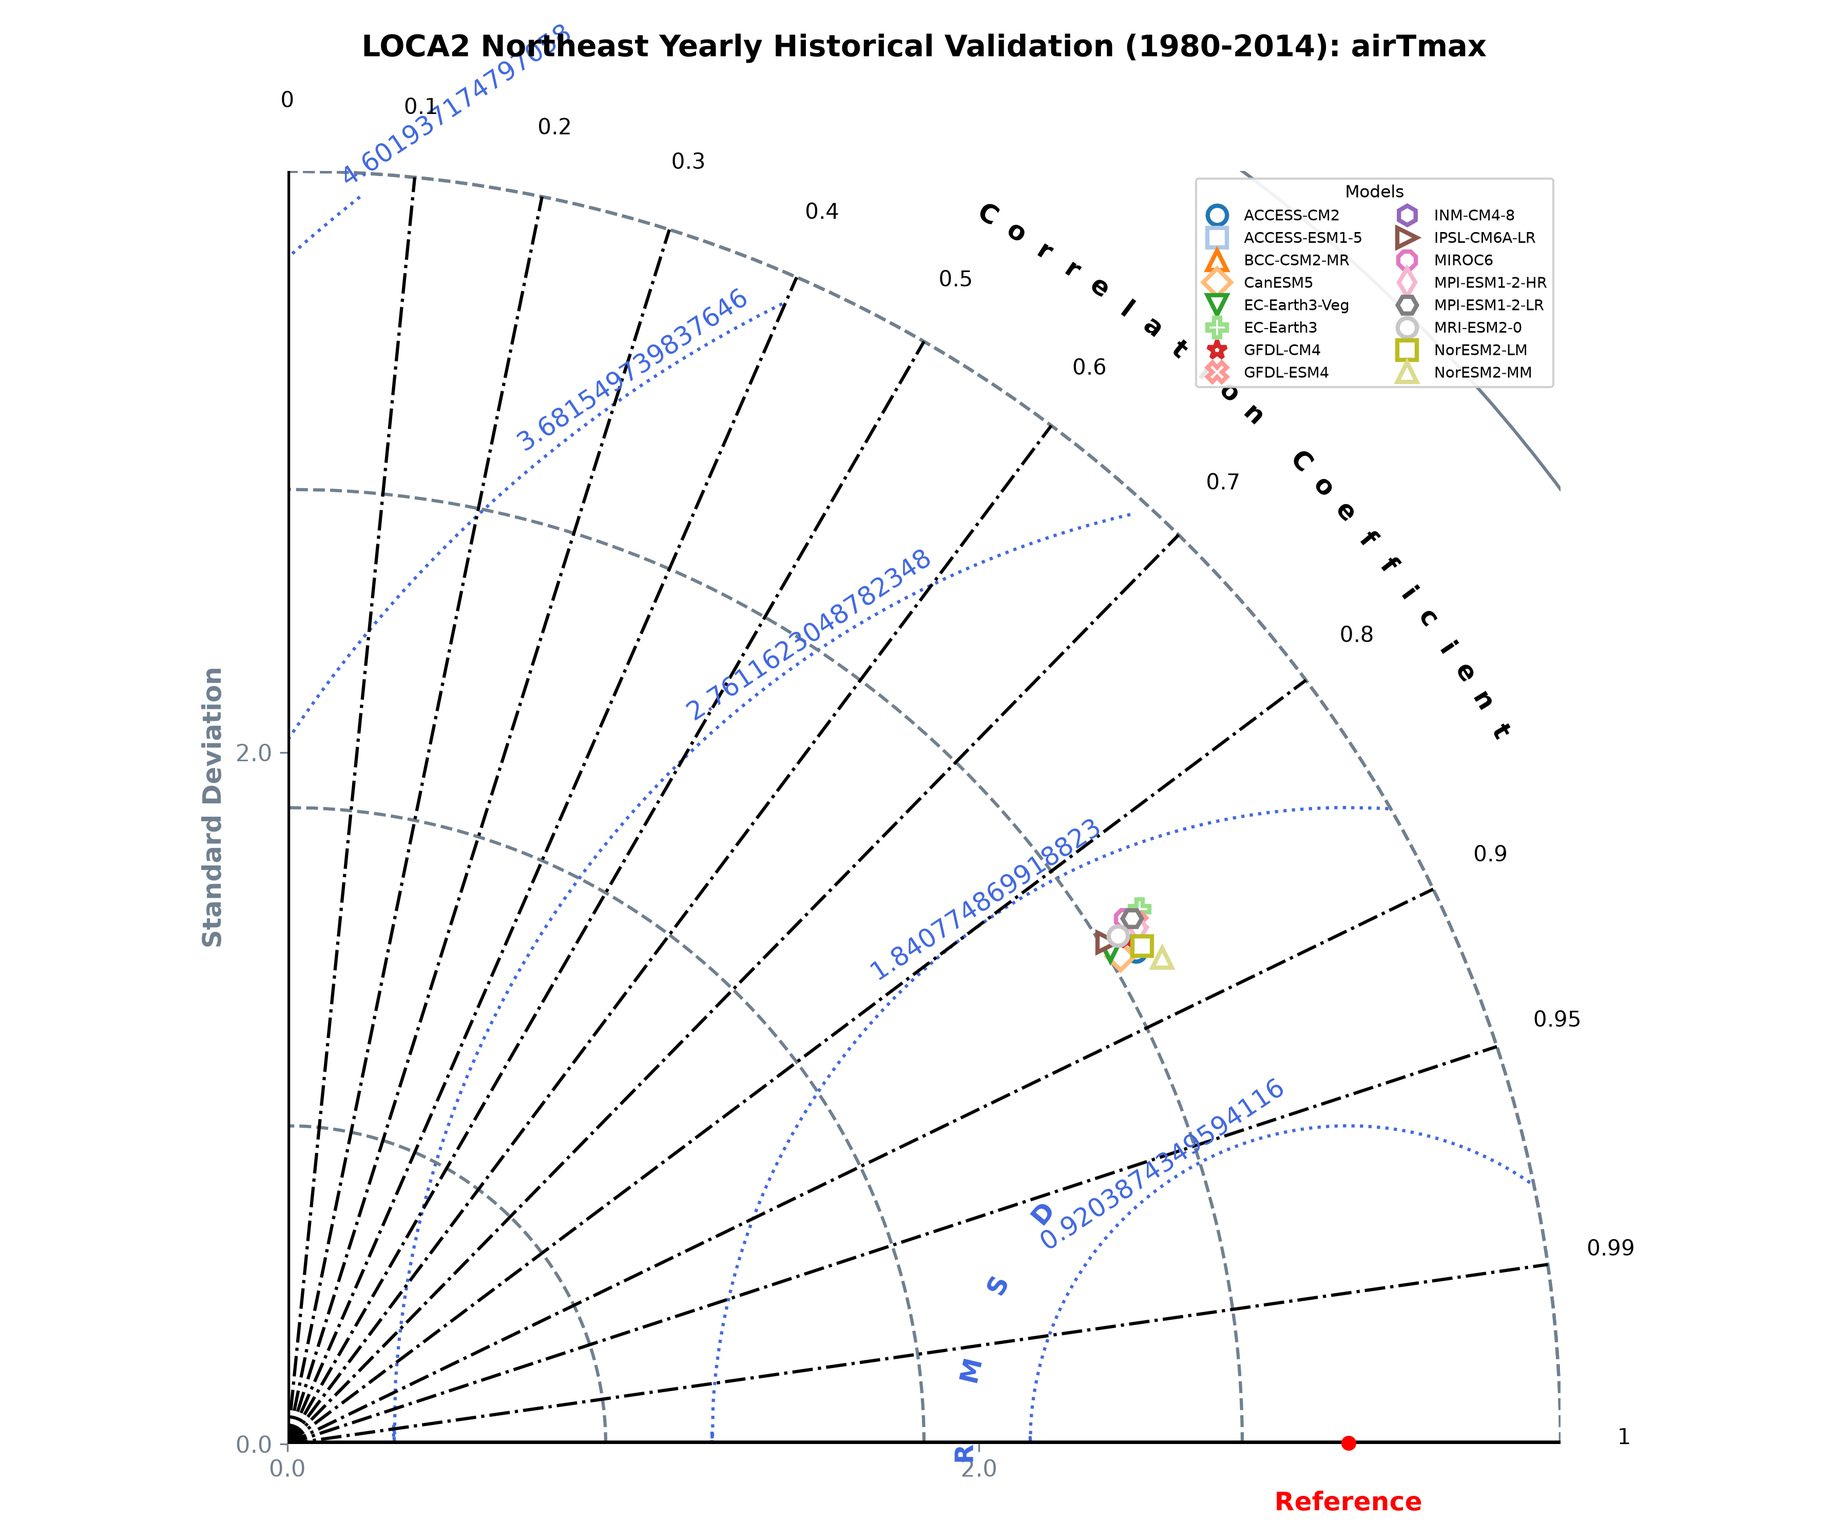
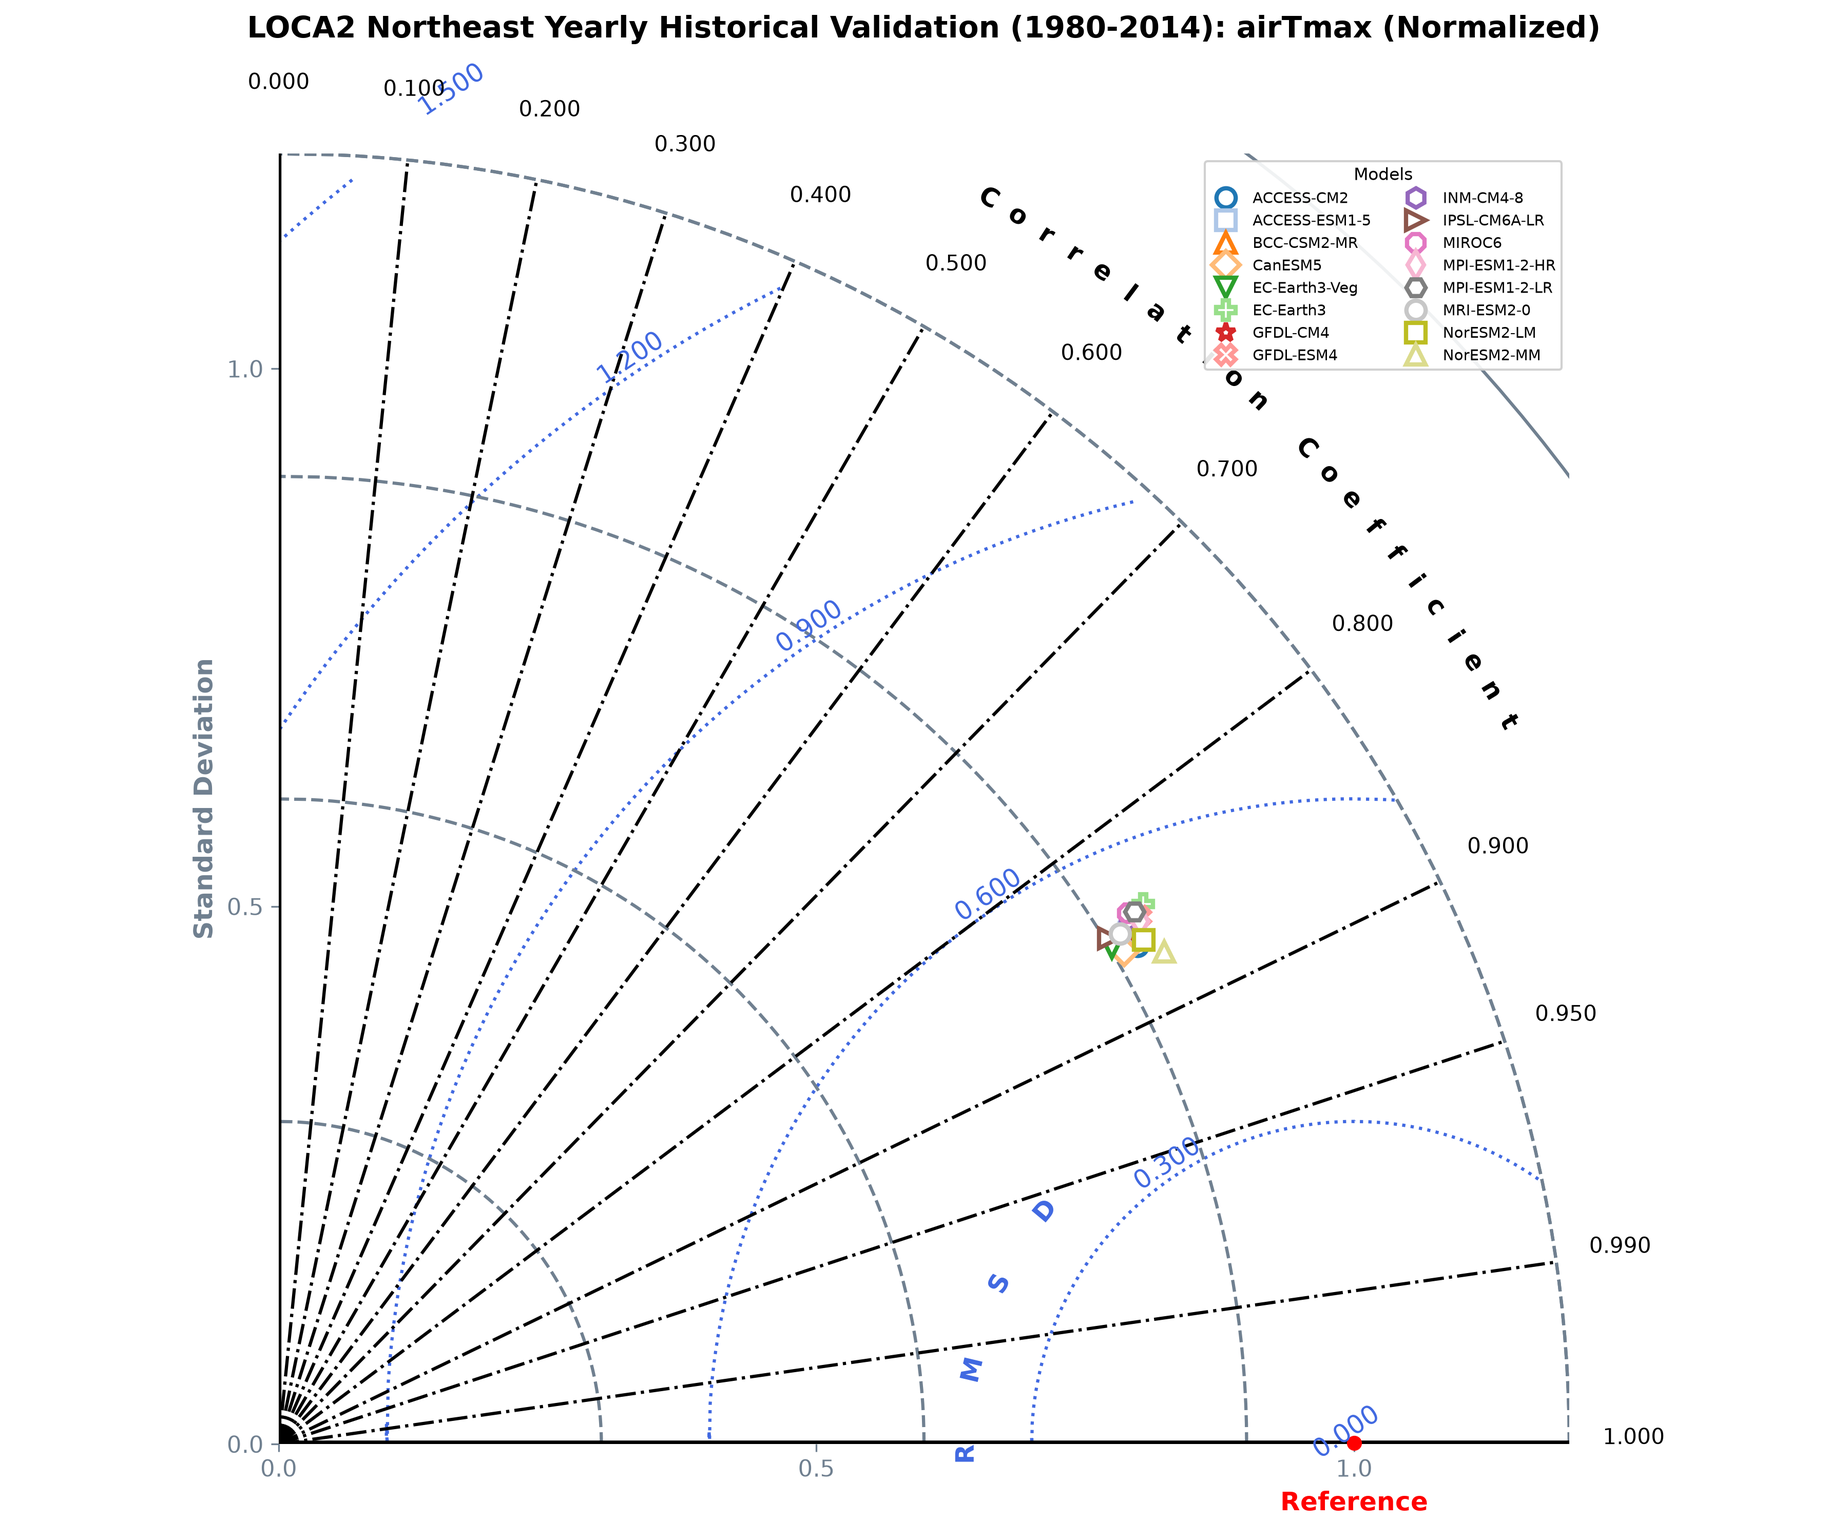
Carried over changes from CONUS Taylor diagrams script to northeast Taylor diagrams script

diff --git a/northeast_yearly_taylor_diagrams.py b/northeast_yearly_taylor_diagrams.py
@@ -24,18 +24,22 @@ MODEL_BASE_DIR = "/net/nfs/echo/ankaa/LOCA2-WBM_output/LOCA2-WBM_historical"
 OUTPUT_DIR = os.path.expanduser("~/LOCA2-WBM_code/plots/taylor_diagrams")
 os.makedirs(OUTPUT_DIR, exist_ok=True)
 
-# state boundary shapefile used to clip datasets to CONUS
+# state boundary shapefile used to clip datasets to the Northeast
 SHAPEFILE_PATH = os.path.expanduser("~/LOCA2-WBM_code/shapefiles/states/cb_2025_us_state_5m.shp")
 
 # northeast states
-nca_ne_states = ['ME', 'NH', 'VT', 'MA', 'RI', 'CT', 'NY', 'NJ', 'PA', 'DE', 'MD', 'WV']
+NE_STATES = ['ME', 'NH', 'VT', 'MA', 'RI', 'CT', 'NY', 'NJ', 'PA', 'DE', 'MD', 'WV']
 
 # map variables to aggregation operations
 variables_config = {
     "airTmax": "mean",
     "airTmin": "mean",
-    "precip": "sum"
+    "precip": "mean"
 }
+
+# known "no data" sentinels that show up
+FILL_VALUE = -9999.0
+FILL_ABS_THRESHOLD = 1e10
 
 model_folders = sorted(glob.glob(os.path.join(MODEL_BASE_DIR, "*_newprcp")))
 model_names = [os.path.basename(f).split('_')[0] for f in model_folders]
@@ -60,45 +64,168 @@ def load_northeast_boundary(shapefile_path=SHAPEFILE_PATH):
     """Load the state shapefile, keep only the northeast states, and
     dissolve them into a single boundary in EPSG:4326 (plain lat/lon)."""
     states = gpd.read_file(shapefile_path)
-    print("Columns in shapefile:", states.columns)
-    print("Sample rows:\n", states[['STUSPS', 'NAME', 'STATEFP']].head())
-    
-    northeast_states = states[states['STUSPS'].isin(nca_ne_states)]
-    northeast_states = northeast_states.to_crs("EPSG:4326")
-
-    print(f"Number of features matched: {len(northeast_states)}")
-    print(f"Shapefile bounds: {northeast_states.total_bounds}")
-    return northeast_states.dissolve().geometry
+    ne_states = states[states['STUSPS'].isin(NE_STATES)].copy()
+    ne_states = ne_states.to_crs("EPSG:4326")
+    return ne_states.dissolve().geometry
 
 
-def clip_to_northeast(da_or_ds, northeast_geom, lat_name="lat", lon_name="lon", all_touched=True):
-    """Clip an xarray DataArray/Dataset to the Northeast boundary. Assumes lon is
-    already in -180..180 convention and lat/lon are 1-D coordinates."""
+def mask_fill_values(da):
+    """Replace known no-data sentinels with real NaN."""
+    return da.where((da != FILL_VALUE) & (np.abs(da) < FILL_ABS_THRESHOLD))
+
+
+def clip_to_northeast(da_or_ds, northeast_geom, lat_name=None, lon_name=None, all_touched=True):
+    # Clip an xarray DataArray/Dataset to the Northeast boundary
+    if lat_name is None:
+        lat_name = 'lat' if 'lat' in da_or_ds.coords else ('latitude' if 'latitude' in da_or_ds.coords else None)
+    if lon_name is None:
+        lon_name = 'lon' if 'lon' in da_or_ds.coords else ('longitude' if 'longitude' in da_or_ds.coords else None)
+    if not lat_name or not lon_name:
+        raise KeyError(f"Could not find lat/lon coordinates in dataset. Found: {list(da_or_ds.coords.keys())}")
+
+    lons = da_or_ds[lon_name].values
+    if np.any(lons > 180):
+        da_or_ds = da_or_ds.assign_coords(
+            {lon_name: np.where(da_or_ds[lon_name] > 180, da_or_ds[lon_name] - 360, da_or_ds[lon_name])}
+        )
+        da_or_ds = da_or_ds.sortby(lon_name)
+
     obj = da_or_ds.rio.write_crs("EPSG:4326", inplace=False)
     obj = obj.rio.set_spatial_dims(x_dim=lon_name, y_dim=lat_name, inplace=False)
+
+    # Force the nodata value used for out-of-geometry pixels to be NaN
+    if isinstance(obj, xr.Dataset):
+        for v in obj.data_vars:
+            obj[v] = obj[v].rio.write_nodata(np.nan)
+    else:
+        obj = obj.rio.write_nodata(np.nan, inplace=False)
+
     return obj.rio.clip(northeast_geom, crs="EPSG:4326", drop=True, all_touched=all_touched)
 
 
-def aggregate_yearly(ds, operation):
-    """Slice to the 1980-2014 period and resample to annual resolution.
-    Precipitation is already a monthly accumulation (mm/month) on disk,
-    so a simple annual sum is mathematically correct."""
-    ds_sliced = ds.sel(time=slice('1980-01-01', '2014-12-31'))
-    
+def normalize_precip_units(da, label):
+    # Express precipitation as a daily rate (mm/day)
+    units = da.attrs.get('units')
+    sample_mean = float(da.isel(time=slice(0, 1)).mean(skipna=True))
+    print(f"    [units check] {label}: units='{units}', sample monthly mean={sample_mean:.4f}")
+
+    flux_units = {'kg m-2 s-1', 'kg/m2/s', 'kg m^-2 s^-1', 'mm s-1', 'mm/s'}
+    per_day_units = {'mm/day', 'mm day-1', 'mm d-1'}
+    per_month_units = {'mm/month', 'mm month-1'}
+
+    if units in flux_units:
+        print(f"    [units check] {label}: converting flux -> mm/day")
+        return da * 86400
+    if units in per_day_units:
+        print(f"    [units check] {label}: already mm/day, no conversion needed")
+        return da
+    if units in per_month_units:
+        print(f"    [units check] {label}: converting mm/month -> mm/day")
+        return da / da.time.dt.days_in_month
+    return da
+
+
+def normalize_temp_units(da, label):
+    # Express temperature in degrees Celsius (Kelvin is the usual culprit)
+    units = da.attrs.get('units')
+    sample_mean = float(da.isel(time=slice(0, 1)).mean(skipna=True))
+    print(f"    [units check] {label}: units='{units}', sample monthly mean={sample_mean:.4f}")
+
+    kelvin_units = {'K', 'Kelvin', 'kelvin', 'degK', 'deg_K'}
+    celsius_units = {'degC', 'C', 'Celsius', 'celsius', 'deg_C', 'degree_Celsius'}
+    fahrenheit_units = {'degF', 'F', 'Fahrenheit', 'fahrenheit'}
+
+    if units in kelvin_units:
+        print(f"    [units check] {label}: converting Kelvin -> degC")
+        return da - 273.15
+    if units in fahrenheit_units:
+        print(f"    [units check] {label}: converting Fahrenheit -> degC")
+        return (da - 32) * (5.0 / 9.0)
+    if units in celsius_units:
+        print(f"    [units check] {label}: already degC, no conversion needed")
+        return da
+    if sample_mean > 100:
+        print(f"    [units check] {label}: units unlabeled but magnitude suggests Kelvin -> converting to degC")
+        return da - 273.15
+    return da
+
+
+def get_area_weights(da, lat_name=None):
+    # cos(latitude) area weights, broadcast to da's full shape
+    if lat_name is None:
+        lat_name = 'lat' if 'lat' in da.coords else 'latitude'
+    w = np.cos(np.deg2rad(da[lat_name]))
+    w_full, _ = xr.broadcast(w, da)
+    return w_full
+
+
+def weighted_taylor_stats(t, r, w):
+    # Area-weighted centered pattern statistics
+    wsum = np.sum(w)
+    tmean = np.sum(w * t) / wsum
+    rmean = np.sum(w * r) / wsum
+
+    tdiff = t - tmean
+    rdiff = r - rmean
+
+    tvar = np.sum(w * tdiff ** 2) / wsum
+    rvar = np.sum(w * rdiff ** 2) / wsum
+
+    sdev_t = np.sqrt(tvar)
+    sdev_r = np.sqrt(rvar)
+
+    denom = np.sqrt(np.sum(w * tdiff ** 2) * np.sum(w * rdiff ** 2))
+    pc = float(np.sum(w * tdiff * rdiff) / denom) if denom > 0 else np.nan
+
+    crmsd = float(np.sqrt(max(sdev_t ** 2 + sdev_r ** 2 - 2 * sdev_t * sdev_r * pc, 0.0)))
+
+    return float(sdev_t), float(sdev_r), pc, crmsd
+
+
+def make_nice_ticks(max_val, n_ticks=5, decimals=3):
+    # Evenly-spaced, cleanly-rounded ticks so STD/RMS gridlines and RMS arc
+    # labels never show raw float garbage (e.g. '14.381999999999998')
+    if max_val <= 0:
+        return np.array([0.0])
+    raw_step = max_val / n_ticks
+    magnitude = 10 ** np.floor(np.log10(raw_step))
+    nice_step = np.ceil(raw_step / magnitude) * magnitude
+    ticks = np.round(np.arange(0, nice_step * (n_ticks + 1), nice_step), decimals)
+    return ticks[ticks <= max_val * 1.3]
+
+
+def clean_numeric_text(ax, decimals=3):
+    # Reformat any numeric-looking text artist on the axes (tick labels AND
+    # inline contour/arc labels) to a fixed number of decimals
+    candidates = list(ax.texts) + list(ax.get_xticklabels()) + list(ax.get_yticklabels())
+    for text_obj in candidates:
+        txt = text_obj.get_text().strip()
+        if not txt:
+            continue
+        try:
+            val = float(txt)
+        except ValueError:
+            continue
+        text_obj.set_text(f"{val:.{decimals}f}")
+
+
+def aggregate_yearly(da, operation):
+    # Slice to the 1980-2014 period and resample to annual resolution
+    da_sliced = da.sel(time=slice('1980-01-01', '2014-12-31'))
+
     if operation == "mean":
-        return ds_sliced.resample(time='YS').mean(dim='time')
+        def _weighted_annual_mean(group):
+            weights = group.time.dt.days_in_month
+            return group.weighted(weights).mean(dim='time', skipna=True)
+        return da_sliced.resample(time='YS').map(_weighted_annual_mean)
     elif operation == "sum":
-        return ds_sliced.resample(time='YS').sum(dim='time')
+        return da_sliced.resample(time='YS').sum(dim='time', skipna=True)
     else:
         raise ValueError(f"Unknown aggregation operation: {operation}")
 
 
 print(f"Loading Northeast boundary from {SHAPEFILE_PATH}")
 northeast_geom = load_northeast_boundary()
-
-# check how many rows were actually matched
-print(f"Number of features in northeast_geom: {len(northeast_geom)}")
-print(northeast_geom.head())
 
 for var, operation in variables_config.items():
     print(f"\n--- Processing variable: {var} (yearly {operation}) ---")
@@ -113,36 +240,47 @@ for var, operation in variables_config.items():
 
     print(f"Loading Livneh monthly files for [{var}]...")
     with xr.open_mfdataset(livneh_pattern, combine='by_coords', data_vars='all') as livneh_ds:
-        livneh_yearly = aggregate_yearly(livneh_ds, operation)
+        livneh_da = livneh_ds[var]
+        # Scrub fill values before agg
+        livneh_da = mask_fill_values(livneh_da)
 
-        # explicitly set coordinate reference system to WGS84 (EPSG:4326)
-        livneh_yearly = livneh_yearly.rio.write_crs("EPSG:4326", inplace=True)
-        livneh_yearly = livneh_yearly.rio.set_spatial_dims(x_dim='lon', y_dim='lat')
+        if var == 'precip':
+            livneh_da = normalize_precip_units(livneh_da, "Livneh")
+        elif var in ('airTmax', 'airTmin'):
+            livneh_da = normalize_temp_units(livneh_da, "Livneh")
 
-        # TEMPORARY: check CRS alignment
-        print(f"Raster CRS: {livneh_yearly.rio.crs}")
-        print(f"Shapefile CRS: {northeast_geom.crs}")
-
-        print(f"Raster Lon Range: {livneh_yearly.lon.min().values} to {livneh_yearly.lon.max().values}")
-        print(f"Shapefile bounds (xmin, ymin, xmax, ymax): {northeast_geom.total_bounds}")
+        livneh_yearly = aggregate_yearly(livneh_da, operation)
 
         print(f"Clipping Livneh [{var}] to Northeast")
         livneh_yearly = clip_to_northeast(livneh_yearly, northeast_geom)
-        # pull into memory now so the data survives past the file closing
-        obs_da = livneh_yearly[var].load()
+        obs_da = livneh_yearly.load()
 
     print(f"Yearly Livneh [{var}] dims: {dict(obs_da.sizes)}")
 
     raw_obs_data = obs_da.values.flatten()
-    obs_mask = ~np.isnan(raw_obs_data) & (raw_obs_data < 1e10) & (raw_obs_data != -9999.0)
+    obs_weights_full = get_area_weights(obs_da)
+    raw_obs_weights = obs_weights_full.values.flatten()
+    obs_mask = ~np.isnan(raw_obs_data)
     obs_clean = raw_obs_data[obs_mask]
+    obs_weights_clean = raw_obs_weights[obs_mask]
 
     if obs_clean.size == 0:
         print(f"No valid Livneh data for {var} after Northeast clip; skipping Taylor diagram.")
         continue
 
-    # initialize SkillMetrics tracking lists w/ baseline's perfect score
-    sdev_list = [np.std(obs_clean)]
+    # area-weighted baseline standard deviation (obs on its own native grid)
+    obs_wsum = np.sum(obs_weights_clean)
+    obs_wmean = np.sum(obs_weights_clean * obs_clean) / obs_wsum
+    obs_wvar = np.sum(obs_weights_clean * (obs_clean - obs_wmean) ** 2) / obs_wsum
+    baseline_sdev = float(np.sqrt(obs_wvar))
+
+    if baseline_sdev == 0:
+        print(f"Livneh [{var}] has zero variance after Northeast clip; skipping Taylor diagram.")
+        continue
+
+    # normalized diagram: everything is a ratio to the obs std dev, so the
+    # reference point is exactly 1.0 and all three variables share a scale
+    sdev_list = [1.0]
     crmsd_list = [0.0]
     cc_list = [1.0]
 
@@ -158,21 +296,32 @@ for var, operation in variables_config.items():
 
         try:
             with xr.open_mfdataset(model_pattern, combine='by_coords', data_vars='all') as model_ds:
-                model_yearly = aggregate_yearly(model_ds, operation)
+                model_da_raw = model_ds[var]
+                model_da_raw = mask_fill_values(model_da_raw)
+
+                if var == 'precip':
+                    model_da_raw = normalize_precip_units(model_da_raw, name)
+                elif var in ('airTmax', 'airTmin'):
+                    model_da_raw = normalize_temp_units(model_da_raw, name)
+
+                model_yearly = aggregate_yearly(model_da_raw, operation)
                 # clip the model grid to Northeast before regridding
                 model_yearly = clip_to_northeast(model_yearly, northeast_geom)
-                model_da = model_yearly[var].load()
+                model_da = model_yearly.load()
 
             obs_regrid = obs_da.interp_like(model_da, method='nearest')
 
+            model_weights_full = get_area_weights(model_da)
+
             model_data = model_da.values.flatten()
             obs_regrid_data = obs_regrid.values.flatten()
+            weights_flat = model_weights_full.values.flatten()
 
-            valid_mask = (~np.isnan(model_data) & (model_data != -9999.0) &
-                          ~np.isnan(obs_regrid_data) & (obs_regrid_data < 1e10))
+            valid_mask = ~np.isnan(model_data) & ~np.isnan(obs_regrid_data)
 
             m_clean = model_data[valid_mask]
             o_clean = obs_regrid_data[valid_mask]
+            w_clean = weights_flat[valid_mask]
 
             # size/dimension checking
             total_cells = len(model_data)
@@ -184,25 +333,23 @@ for var, operation in variables_config.items():
                 print(f"  Skipping {name} [{var}]: no overlapping valid data")
                 continue
 
-            # numpy math
-            sdev = float(np.std(m_clean))
-            o_std = float(np.std(o_clean))
+            # area-weighted std devs, pattern correlation, and CRMSD
+            # (NCL taylor_stats.ncl equivalent)
+            sdev, o_std, corr, crmsd = weighted_taylor_stats(m_clean, o_clean, w_clean)
 
-            # extract correlation scalar
-            corr = float(np.corrcoef(m_clean, o_clean)[0, 1])
+            # normalize to the obs std dev
+            sdev_norm = sdev / baseline_sdev
+            crmsd_norm = crmsd / baseline_sdev
 
-            # standard CRMSD formula
-            crmsd = float(np.sqrt(sdev**2 + o_std**2 - 2 * sdev * o_std * corr))
-
-            sdev_list.append(round(sdev, 3))
-            crmsd_list.append(round(crmsd, 3))
+            sdev_list.append(round(sdev_norm, 3))
+            crmsd_list.append(round(crmsd_norm, 3))
             cc_list.append(round(corr, 3))
             active_models.append(name)
 
-            print(f"  Model: {name:<15} | Corr: {corr:.3f} | CRMSE: {crmsd:.3f}")
+            print(f"  Model: {name:<15} | Corr: {corr:.3f} | CRMSE(norm): {crmsd_norm:.3f} | SDEV(norm): {sdev_norm:.3f}")
 
-            if crmsd < lowest_error:
-                lowest_error = crmsd
+            if crmsd_norm < lowest_error:
+                lowest_error = crmsd_norm
                 best_model = name
 
         except Exception as e:
@@ -215,6 +362,10 @@ for var, operation in variables_config.items():
         crmsds = np.array(crmsd_list)
         ccs = np.array(cc_list)
 
+        axis_max = float(np.round(np.max(sdevs) * 1.2, 3))
+        std_ticks = make_nice_ticks(axis_max, n_ticks=5, decimals=3)
+        rms_ticks = make_nice_ticks(axis_max, n_ticks=5, decimals=3)
+
         fig = plt.figure(figsize=(12, 10))
 
         markers_dict = {m: MODEL_STYLE[m] for m in active_models}
@@ -225,7 +376,9 @@ for var, operation in variables_config.items():
             markerObs='o',
             colObs='red',
             titleOBS='Reference',
-            axisMax=float(np.max(sdevs) * 1.2),
+            axisMax=axis_max,
+            tickSTD=std_ticks,
+            tickRMS=rms_ticks,
             colCOR='black',
             colRMS='RoyalBlue',
             colSTD='SlateGray',
@@ -233,6 +386,8 @@ for var, operation in variables_config.items():
             styleSTD='--')
 
         ax = plt.gca()
+        clean_numeric_text(ax, decimals=3)
+
         leg = ax.get_legend()
         handles = leg.legend_handles
         labels = [t.get_text() for t in leg.get_texts()]
@@ -241,7 +396,7 @@ for var, operation in variables_config.items():
         ax.legend(handles, labels, loc='upper right', fontsize=7,
                   ncol=2, framealpha=0.9, title='Models', title_fontsize=8)
 
-        plt.title(f'LOCA2 Northeast Yearly Historical Validation (1980-2014): {var}',
+        plt.title(f'LOCA2 Northeast Yearly Historical Validation (1980-2014): {var} (Normalized)',
                   y=1.08, fontsize=14, fontweight='bold')
         plt.tight_layout()
         output_plot = os.path.join(OUTPUT_DIR, f"northeast_{var}_yearly_taylor.png")
